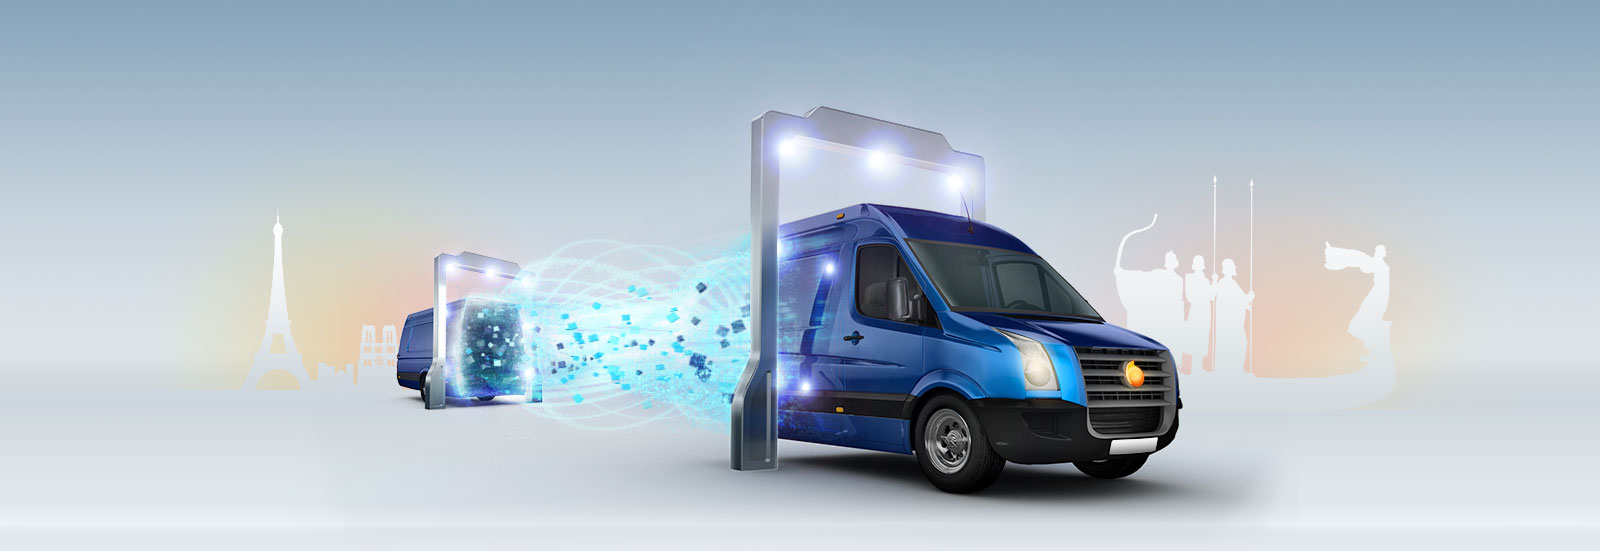
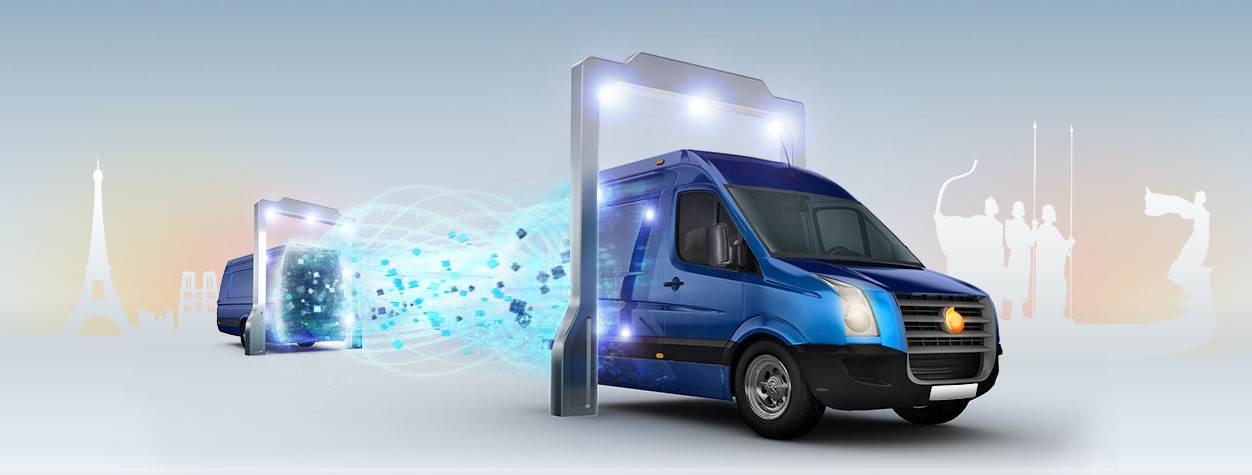
Fixed css styles for the main page

Changed region(s): [[0.0312, 0.0884, 0.9657, 0.9726]]

diff --git a/app/assets/stylesheets/index.css.scss b/app/assets/stylesheets/index.css.scss
@@ -24,13 +24,11 @@ $footerHght: 234px;
 $wrapWidth: 965px;
 $width_2-5: 220px;
 
-html { 
-
-}
 body {
-	overflow-x: hidden;
-	color: #2d2d2d;
+	//overflow-x: hidden;
+	color: #1c3445;
 	font-family: 'PTSansRegular', sans-serif !important;
+	overflow-x: hidden;
 }
 .pull-right {
 	float: right;	
@@ -61,7 +59,7 @@ html,body {
 	height: 100%; 
 }
 .main {
-	@include bgGradient(rgb(123, 153, 177), #F5F8FA, #e6ecf1);
+	background: #f5f8fa url(bg.jpg) repeat-x;	
 	min-height: 100%;
 }
 .hFooter { 
@@ -75,19 +73,51 @@ html,body {
 }
 .redline {
 	@include setFont(PTSansRegular, 14px, #1b4d6f);
-	color:#fa9881 !important;
-	text-decoration: underline;		
+	color: #fa9881 !important;
+	text-decoration: none;		
+	border-bottom: 1px solid;
+	&:hover {
+		border-bottom: 1px solid #ff3908; 
+	} 
 	span {
 		color:#1b4d6f;
 	}
 }
 #parallax {
-	position:absolute;
 	overflow:hidden;
+	position:absolute;	
 	width:1600px;
-	height:550px;	
-	z-index: 5	
+	height:950px;	
+	z-index: 5;	
+	margin-left: -350px;
+	img {
+		position: absolute;
+	}
+	.leaf_sml {
+		margin-top: 285px;
+		margin-left: 374px;
+	}
+	.leaf_mid {
+		margin-left: 50px;
+	}
+	.leaf_big {
+		margin-top: 24px;
+		margin-left: -20px;
+	}
+	.bubble_sml { 
+		margin-top: 223px;
+		margin-left: 1230px;
+	}
+	.bubble_mid {
+		margin-top: 92px;
+		margin-left: 1234px;
+	}
+	.bubble_big {
+		margin-left: 1350px;
+	}
 }
+
+
 // *****************
 // 		HEADER
 // *****************
@@ -100,10 +130,11 @@ header {
 	h1 {
 		float: left;
 		margin-top: 13px;
+		position: relative;
 	}
-	ul {
-		background: #E6E8ED;		
-		@include bgGradient(#E6E8ED, #C7D4DF, rgb(187, 202, 230));
+	ul {			
+		// @include bgGradient(#E6E8ED, #C7D4DF, rgb(187, 202, 230));
+		background: url(main-menu-bg.jpg) repeat-x;
 		list-style: none;	
 			
 	}
@@ -117,18 +148,22 @@ header {
 		border-top: 1px solid #e0e5ea;
 		border-bottom: 1px solid #e0e5ea;
 		border-left: 1px solid #e0e5ea;;
-		padding: 10px;				
+		padding: 10px;
+		li:nth-child(1) {
+			background: none;
+		}				
 		li {
+			background: url(nav-brd.png) no-repeat;
 			display: inline-block;
 			padding: 8px 20px;
-			border-right: 1px solid #98a6b3;
+			// border-right: 1px solid #98a6b3;
 			position: relative;
 			a {
 				font-family: 'PTSansNarrowRegular', sans-serif;
 				text-decoration: none;
 				color: #1b4d6f;
 				font-size: 18px;
-				text-shadow: 1px 1px 1px #fff;
+				text-shadow: 1px 1px 0 #fff;
 				&:hover {
 					text-decoration:underline;
 				}
@@ -138,9 +173,14 @@ header {
 			border-right: none;
 		}
 	}
+	.nav-stick {
+			background: url(nav-brd-btw.png) no-repeat;
+			height: 58px;
+			margin-top: 16px;
+			width: 3px;
+	}
 	ul.hdr-lang {
-		border-radius: 0 10px 10px 0;		
-		border-left: 1px solid #98a6b3;
+		border-radius: 0 10px 10px 0;
 		border-top: 1px solid #e0e5ea;
 		border-bottom: 1px solid #e0e5ea;
 		border-right: 1px solid #e0e5ea;
@@ -173,12 +213,15 @@ header {
 section {
 	clear: left;
 }
+.wrap:nth-child(0) {
+
+}
 .wrap {
 	@include wrapper(975px);
 }
 .wrap_big {
-	@include wrapper(1600px);
-	margin-top: -100px;
+	@include wrapper(1250px);
+	margin-top: -128px;
 	.top-img-2, .top-img-3  {
 		display: none;
 	}
@@ -190,15 +233,15 @@ section {
 	z-index: 50;
 	.item-1 {
 		@include setFont(PTSansNarrowRegular, 30px, #d9e1e7);
-		text-shadow: 2px -2px 1px #91a4b4;
+		text-shadow: 1px -1px 0px #91a4b4;
 	}
 	.item-2 {
 		@include setFont(PTSansNarrowBold, 40px, #d9e1e7);
-		text-shadow: 2px -2px 1px #91a4b4;
+		text-shadow: 1px -1px 0px #91a4b4;
 		line-height: 1;
 	}
 	.item-3 {
-		@include setFont(PTSansRegular, 20px, #fff);	
+		@include setFont(PTSansRegular, 20px, #d9e1e7);	
 	}
 	[class*="item"] {
 		@include reset;
@@ -210,6 +253,8 @@ section {
 // *****************
 .nav {
 	margin-top: 20px;
+	position: relative;
+	z-index: 6;
 	.span2-5 {
 		background: url(nav-1-bg.png) no-repeat;
 		float: left;		
@@ -232,10 +277,20 @@ section {
 		height: 66px;
 		padding-top: 25px;
 		padding-bottom: 3px;
-		width: 749px;		
+		width: 749px;	
+		.span3.active {
+			p {
+				border-bottom: none !important;
+			}
+		}	
 		.span3 {
 			padding-left: 25px;
-			@include setFont(PTSansNarrowRegular, 24px, #101e2c);		
+			@include setFont(PTSansNarrowRegular, 24px, #101e2c);	
+			p {
+				border-bottom: 1px dotted #101e2c;
+				float: left;
+				margin-top: 18px;
+			}	
 		}			
 	}
 	@for $i from 1 through 3 {
@@ -256,11 +311,13 @@ section {
 // *****************
 .news {
 	margin-top: 15px;
+	position: relative;
+	z-index: 6;
 	.span3 {
 		padding-left: 22px;
 	}
 	h4 {
-		@include setFont(PTSansNarrowBold, 30px, #919ea8);
+		@include setFont(PTSansNarrowRegular, 30px, #919ea8);
 		margin-bottom: 0;
 		span {
 			font-size: 14px;
@@ -272,7 +329,8 @@ section {
 		margin-top: 7px;
 	}
 	.span3:nth-child(4) {
-		p {
+		margin-top: 35px;
+		a {
 			@include setFont(PTSansNarrowRegular, 24px, #203c50);
 			line-height: 1.2;			
 		}
@@ -280,6 +338,8 @@ section {
 }
 .news-out {
 	margin: -20px 0 80px;
+	position: relative;
+	z-index: 6;
 	a {
 		color: #1b4d6f;
 		font-size: 14px;
@@ -309,6 +369,7 @@ section {
 			&:nth-child(2) {
 				p {
 					@include setFont(PTSansNarrowRegular, 36px, #2d2d2d);
+					height: 35px;
 					margin: 6px 0 0 -60px;
 					span {
 						@include setFont(PTSansRegular, 13px, #2d2d2d);

diff --git a/app/assets/javascripts/jquery.zlayer.min.js b/app/assets/javascripts/jquery.zlayer.min.js
@@ -1,0 +1,9 @@
+/**
+* jQuery.zLayer.min v0.3 plugin
+* Copyright (c) 2013 Devin R. Olsen
+* Date: 3/24/2013
+*
+* Project Home: 
+* http://www.devinrolsen.com/jquery-zlayers-plugin/
+*/
+$.fn.extend({zlayer:function(e,t){var n=$.extend({reposition:true,repositionTransition:"all 1s ease-in-out"},t);var r=$(this);var i=r.offset();var s=r.width();var o=r.height();var u=i.left;var a=i.top;var f=$.support.opacity;var l=("ontouchstart"in window||!!("onmsgesturechange"in window))&&!("onmspointermove"in window);var c=["-webkit-","-moz-","-o-","-ms-",""];$(this).bind("mousemove touchmove touchstart mspointermove",function(t){function C(e,t){var e=d.force=="pull"?d.confine==t?e=0:e=e/d.mass:d.confine==t?e=0:e=-e/d.mass;return parseInt(e)}var n=t;var i=e.length;while(i--){var h=$(e[i].layer);var p=h.offset();var d=$.extend({confine:"",force:"push",mass:10},e[i]);if(l){n=t.originalEvent.touches[0]}var v=n.pageX-u;var m=n.pageY-a;var g=v<=s&&v>=0?true:false;var y=m<=o&&m>=0?true:false;if(g&&y){var b=v-s/2;var w=m-o/2;if(f){var E={};var S=c.length;var x=[C(b,"x"),"px,",C(w,"y"),"px"].join("");while(S--){var T=c[S],N=[T,"transform"].join("");E[N]=["translate(",x,")"].join("");E[N]=["translate3d(",x,",0)"].join("");E[[T,"transition"].join("")]=""}}else{E["top"]=C(w,"y");E["left"]=C(b,"x")}h.css(E)}else{r.trigger("mouseleave touchend mspointerout");return}}t.preventDefault()}).bind("mouseleave touchend mspointerout",function(){if(n.reposition==true){var t=e.length;while(t--){var r={};var i=c.length;while(i--){var s=c[i],o=[s,"transform"].join("");r[o]=["translate(0,0)"].join("");r[o]=["translate3d(0,0,0)"].join("");r[[s,"transition"].join("")]=n.repositionTransition}r["left"]=r["top"]="0";jQuery(e[t].layer).css(r)}}})}})
